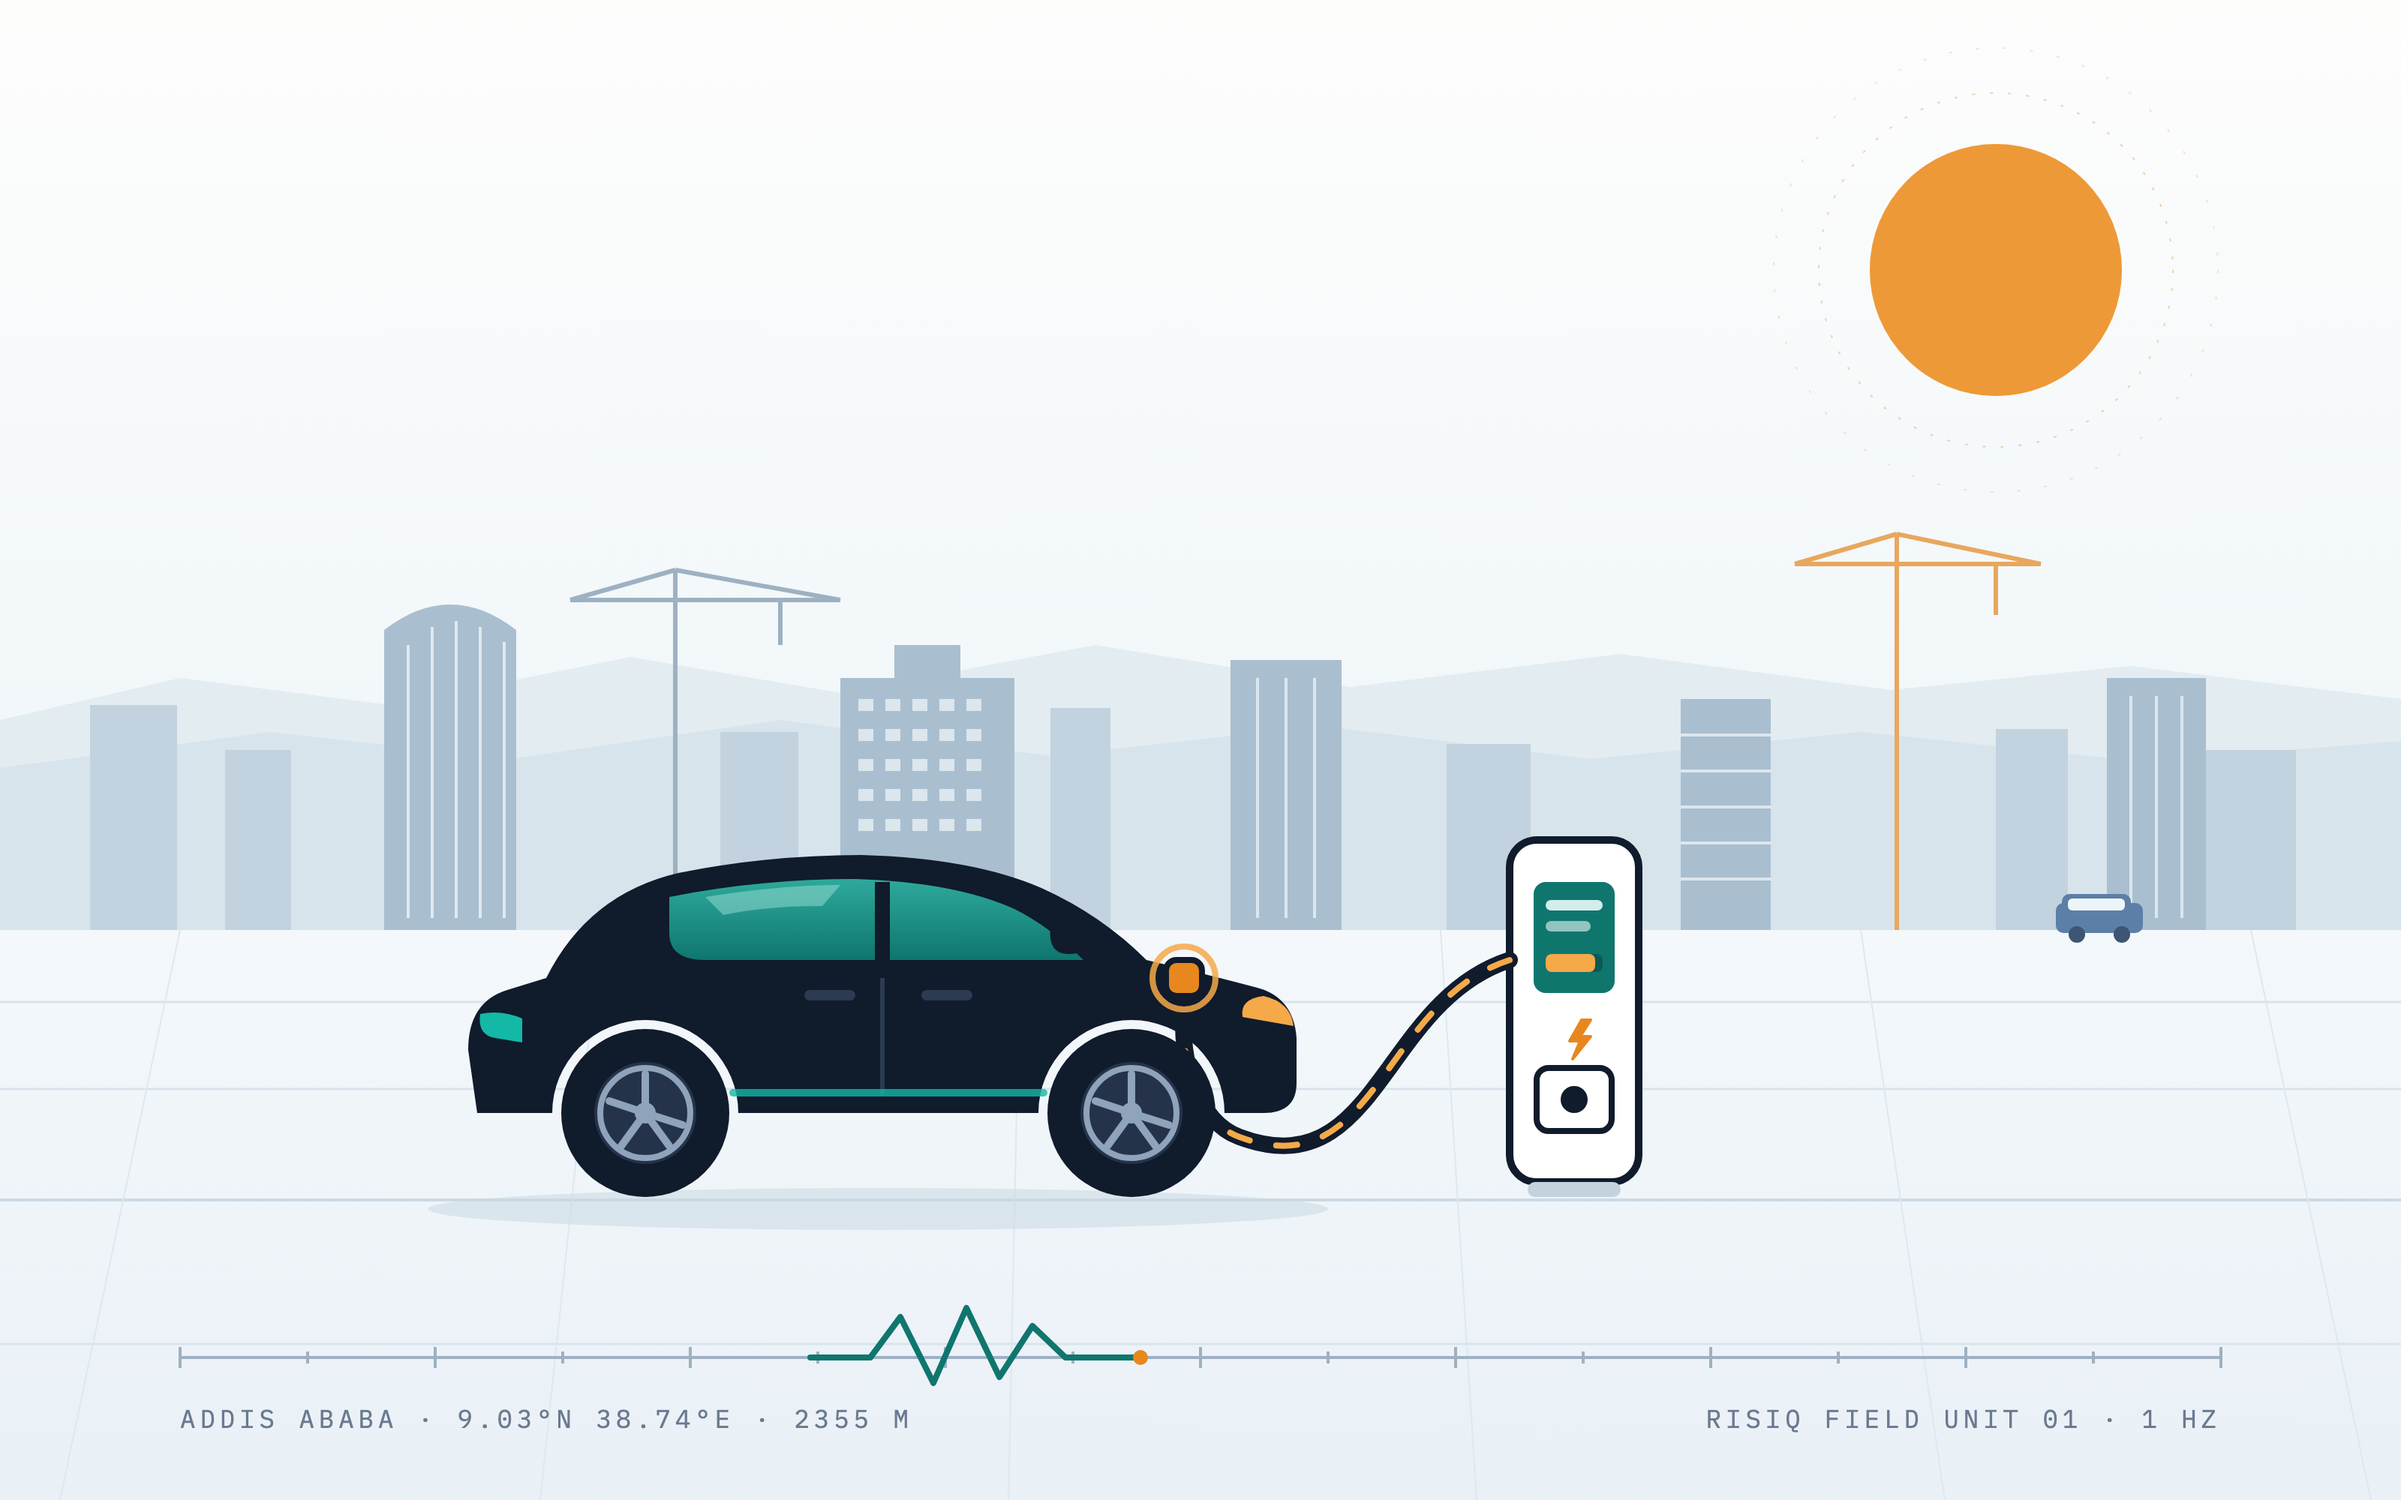
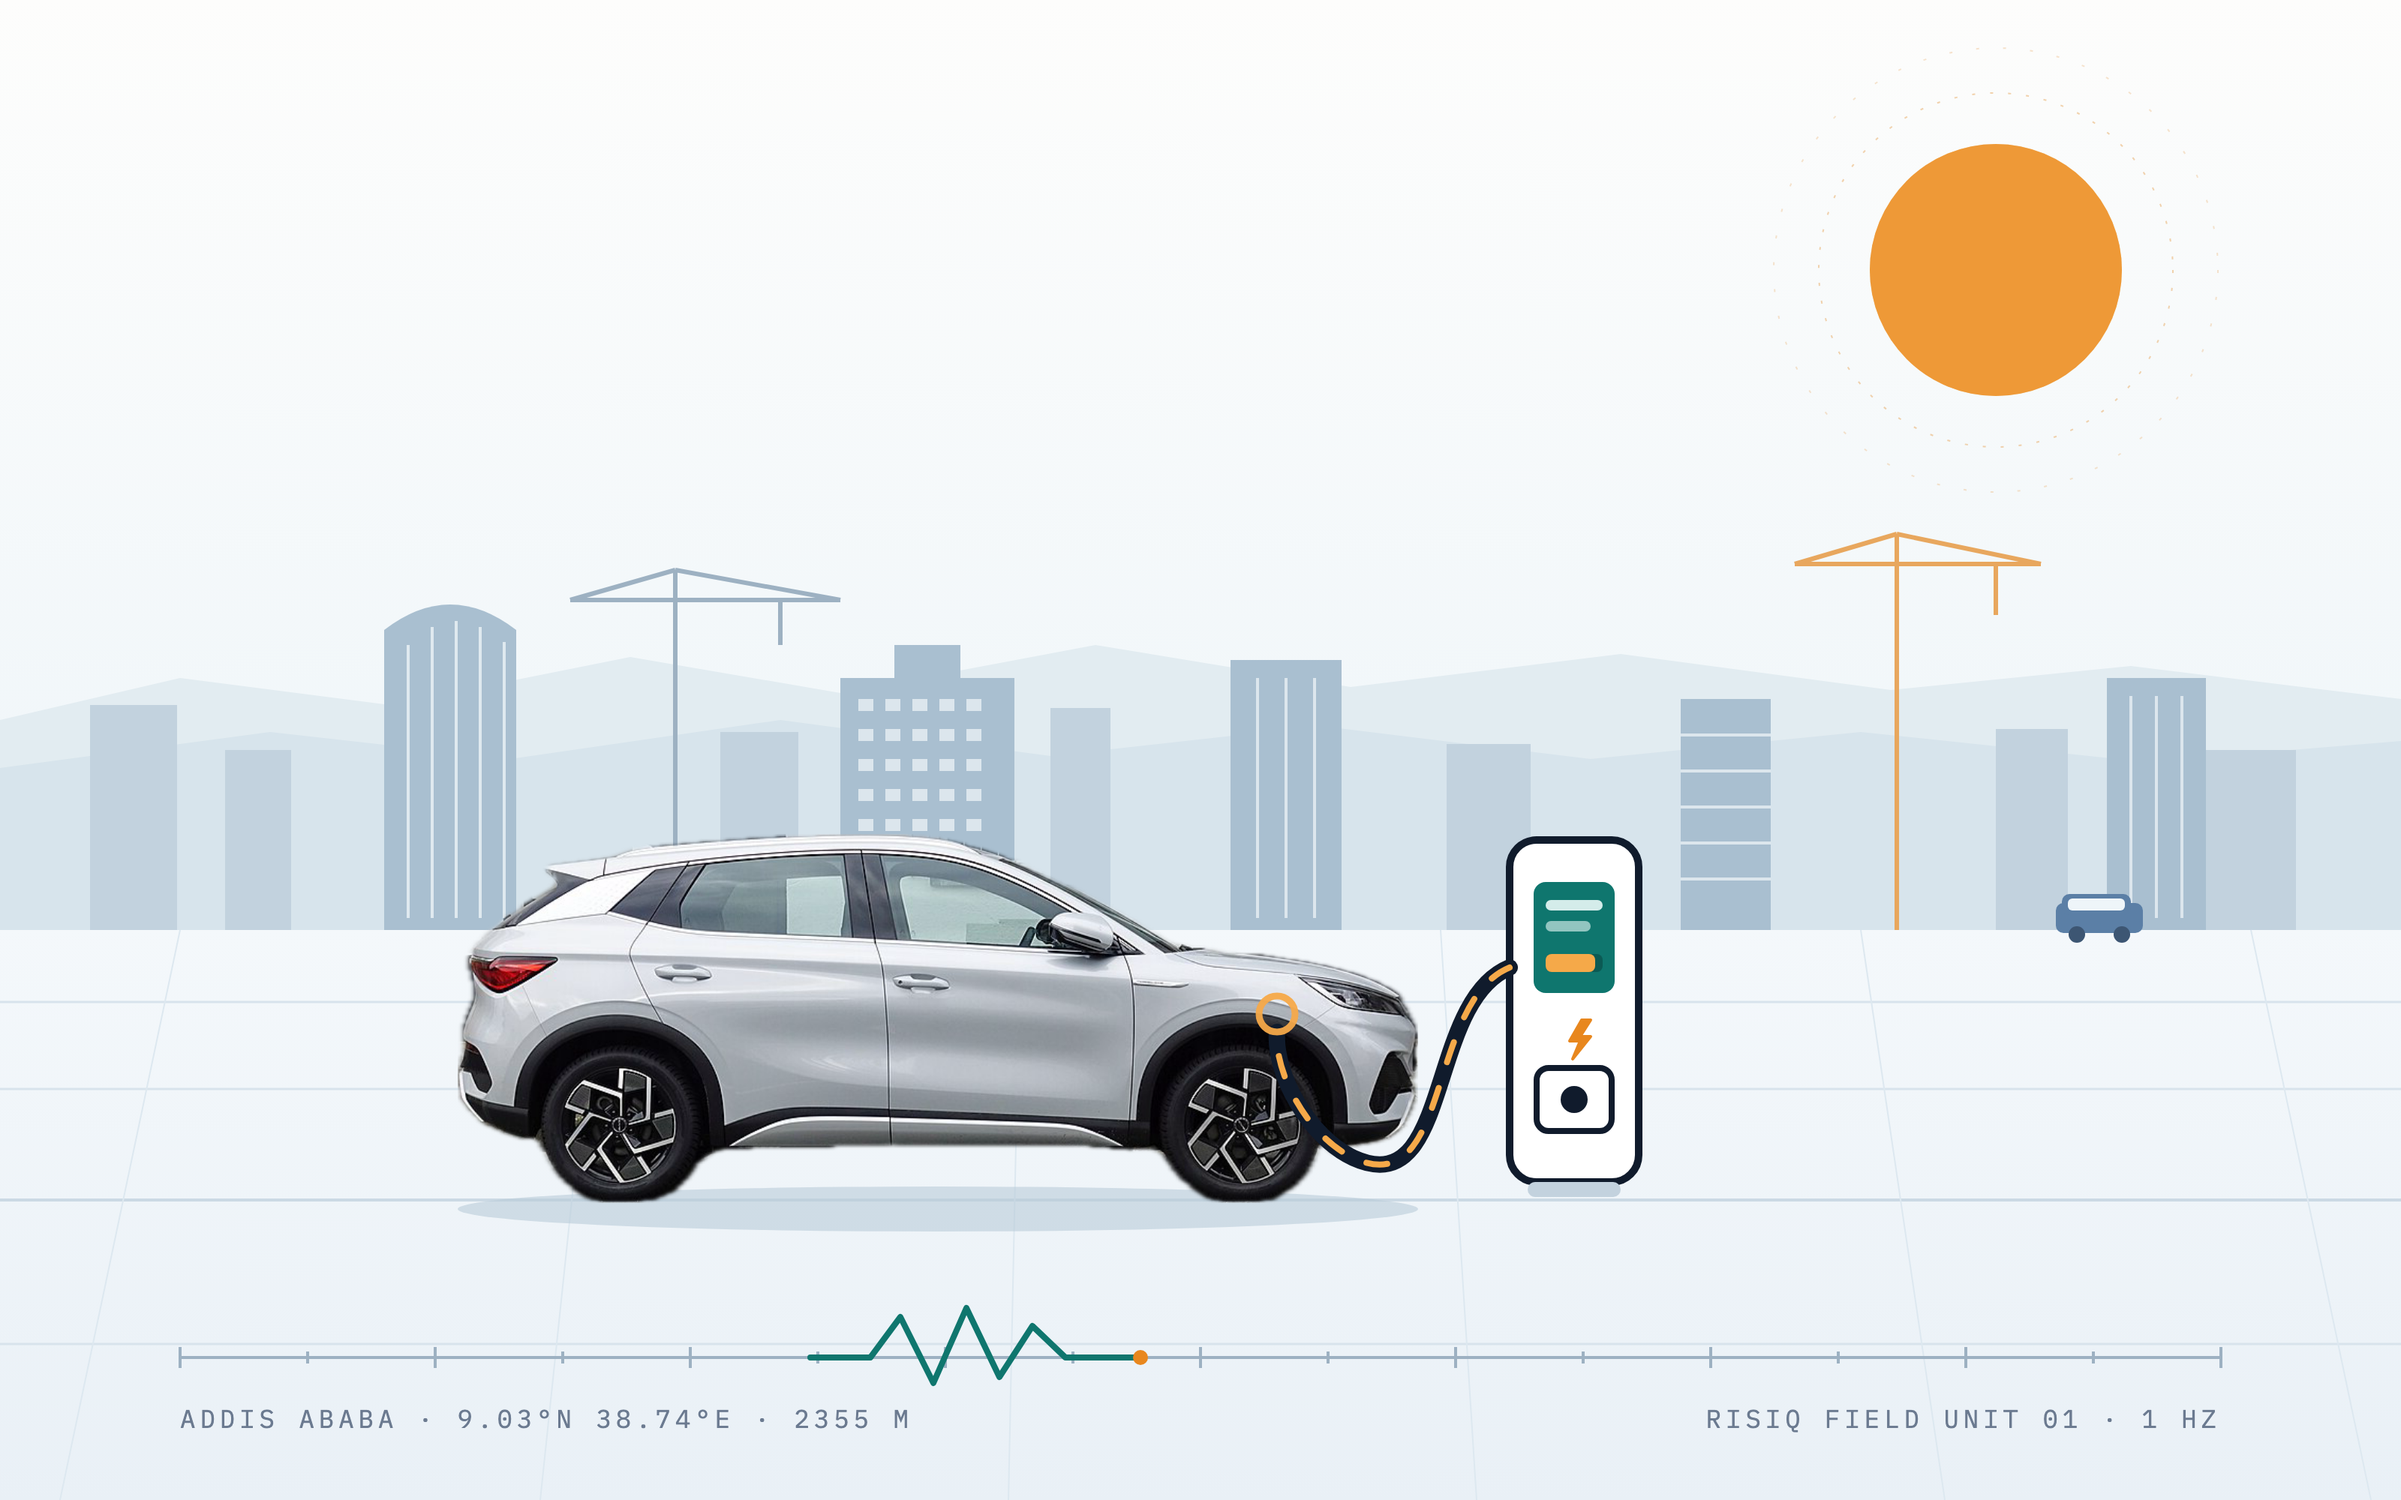
Replace illustrated car with real BYD Atto 3 photo composite
Cut out a CC BY 4.0 BYD Atto 3 photo (Hubert Berberich, Wikimedia
Commons) with Vision foreground masking, mirror it to face the charge
pillar, and composite it into the Addis skyline hero with the cable
plugged into the fender port. Attribution added under the hero figure.

Changed region(s): [[0.1875, 0.558, 0.625, 0.837]]

diff --git a/index.html b/index.html
@@ -62,7 +62,8 @@
         <p class="hero-note">A partnership briefing for insurers, importers, banks, government agencies &amp; investors — Addis Ababa.</p>
       </div>
       <figure class="hero-figure reveal" style="margin-bottom:0;">
-        <img src="assets/img/hero-addis.png" alt="Illustration of an electric car charging at a RISIQ test unit against the Addis Ababa skyline" width="1600" height="1000">
+        <img src="assets/img/hero-addis.png" alt="A BYD Atto 3 charging at a RISIQ test unit against the Addis Ababa skyline" width="1600" height="1000">
+        <figcaption style="padding:10px 18px; font-size:0.72rem; color:var(--text-faint); border-top:1px solid var(--line-soft); background:#fff;">BYD Atto 3 — the best-selling EV on Ethiopian roads. Vehicle photo: Hubert Berberich, Wikimedia Commons (CC BY 4.0), composited.</figcaption>
       </figure>
     </div>
   </section>
